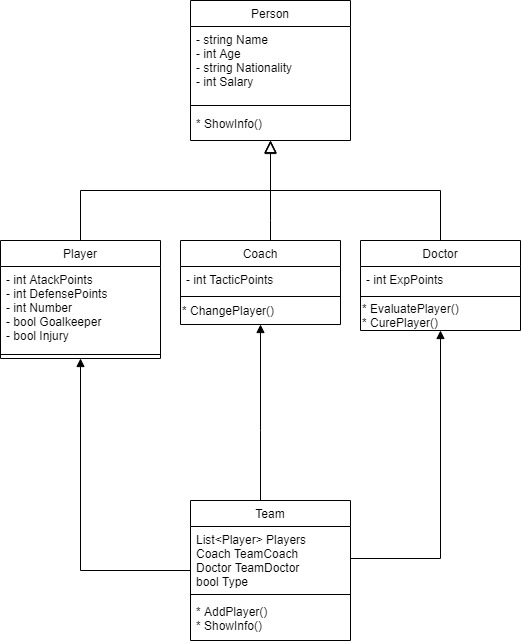
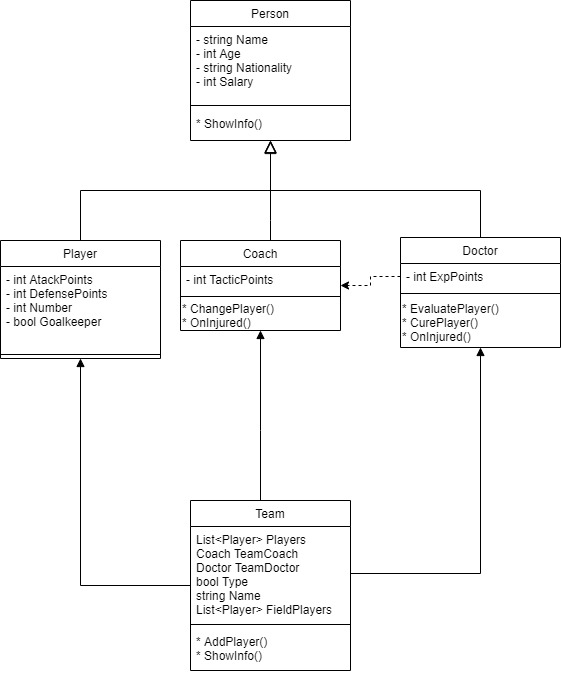
Evento Lesionado

Changed region(s): [[0.0, 0.0, 1.0, 1.0]]

diff --git a/Examen/Program.cs b/Examen/Program.cs
@@ -2,7 +2,7 @@
 using System.Collections.Generic;
 using System.Linq;
 using System.Text;
-using System.Threading.Tasks;
+using System.Threading;
 
 namespace Examen
 {
@@ -13,6 +13,8 @@ namespace Examen
             #region Crear
             List<Player> players = new List<Player>();
             List<Player> players1 = new List<Player>();
+            List<Player> field = new List<Player>();
+            List<Player> field1 = new List<Player>();
             Player p1 = new Player("A A", 23, "Chile", 5000, 350, 200, 1, false); players.Add(p1);
             Player p2 = new Player("B B", 23, "Chile", 5000, 350, 200, 2, true); players.Add(p2);
             Player p3 = new Player("C C", 23, "Chile", 5000, 350, 200, 3, false); players.Add(p3);
@@ -47,28 +49,54 @@ namespace Examen
             Coach c2 = new Coach("R R", 42, "Irlanda", 10000, 570);
             Doctor d1 = new Doctor("S S", 42, "Chile", 15000, 500);
             Doctor d2 = new Doctor("T T", 42, "Irlanda", 15000, 500);
-            Team chile = new Team(players, c1, d1, true,"Chile");
-            Team irlanda = new Team(players1, c2, d2, true, "Irlanda");
-            Team ligac = new Team(players, c2, d1, false, "Liga Chilena");
-            Team ligai = new Team(players1, c1, d2, false, "Liga Irlandesa");
+            int i = 11;
+            while (i>= 0)
+            {
+                field.Add(players[i]);
+                field1.Add(players1[i]);
+                i--;
+            }
+            Team chile = new Team(players, c1, d1, true,"Chile",field);
+            Team irlanda = new Team(players1, c2, d2, true, "Irlanda",field1);
+            Team ligac = new Team(players, c2, d2, false, "Liga Chilena", field);
+            Team ligai = new Team(players1, c1, d1, false, "Liga Irlandesa", field1);
             #endregion
+
+            d1.Injured += c1.OnInjured;
+            d2.Injured += c2.OnInjured;
+
+            #region Consola
+
             chile.ShowInfo();
+            Thread.Sleep(3000);
             Console.WriteLine();
             irlanda.ShowInfo();
+            Thread.Sleep(3000);
             Console.WriteLine();
             Partido(chile, irlanda);
+            Thread.Sleep(3000);
+            Console.WriteLine();
+            Partido(ligac, ligai);
+            Thread.Sleep(3000);
             Console.WriteLine();
             Partido(chile, ligac);
+            Thread.Sleep(3000);
             Console.WriteLine();
             Console.WriteLine("Se intenta de agregar un jugador a un equipo nacional.");
+            Thread.Sleep(3000);
             chile.AddPlayer(p16);
+            Thread.Sleep(3000);
             Console.WriteLine();
             ligai.ShowInfo();
+            Thread.Sleep(3000);
             Console.WriteLine();
             Console.WriteLine("Se intenta de agregar un jugador a un equipo de liga.");
+            Thread.Sleep(3000);
             ligac.AddPlayer(p23);
             ligac.ShowInfo();
             Console.ReadKey();
+
+            #endregion
         }
         static public void Partido(Team a, Team b)
         {
@@ -77,7 +105,7 @@ namespace Examen
                 Console.WriteLine("Se jugó un partido, los equipos que se enfrentaron son:");
                 Console.WriteLine(a.Name + " v/s " + b.Name);
                 Random rnd = new Random();
-                int minutos = rnd.Next(90, 130);
+                int minutos = rnd.Next(90, 100);
                 Console.WriteLine("El partido duró {0} minutos", minutos.ToString());
                 int marcadorA = rnd.Next(5);
                 int marcadorB = rnd.Next(5);
@@ -92,6 +120,19 @@ namespace Examen
                     str = "Liga";
                 }
                 Console.WriteLine("El tipo de partido es {0}", str);
+                int lesion = rnd.Next(3);
+                if (lesion == 0)
+                {
+                    int i = rnd.Next(12);
+                    Console.WriteLine("El jugador {0} de {1} se lesionó", a.FieldPlayers[i].Name, a.Name);
+                    a.TeamDoctor.EvaluatePlayer(a.FieldPlayers[i]);
+                }
+                else if (lesion == 1)
+                {
+                    int i = rnd.Next(12);
+                    Console.WriteLine("El jugador {0} de {1} se lesionó", b.FieldPlayers[i].Name, b.Name);
+                    b.TeamDoctor.EvaluatePlayer(b.FieldPlayers[i]);
+                }
             }
             else
             {

diff --git a/Examen/Team.cs b/Examen/Team.cs
@@ -13,14 +13,16 @@ namespace Examen
         private Doctor teamDoctor;
         private bool type; // true es Nacional y false es Liga
         private string name;
+        private List<Player> fieldPlayers;
 
-        public Team(List<Player> teamPlayers, Coach teamCoach, Doctor teamDoctor, bool type, string name)
+        public Team(List<Player> teamPlayers, Coach teamCoach, Doctor teamDoctor, bool type, string name, List<Player> fieldPlayers)
         {
             this.teamPlayers = teamPlayers;
             this.teamCoach = teamCoach;
             this.teamDoctor = teamDoctor;
             this.type = type;
             this.name = name;
+            this.FieldPlayers = fieldPlayers;
         }
 
         public List<Player> TeamPlayers { get => teamPlayers; set => teamPlayers = value; }
@@ -28,6 +30,7 @@ namespace Examen
         public Doctor TeamDoctor { get => teamDoctor; set => teamDoctor = value; }
         public bool Type { get => type; set => type = value; }
         public string Name { get => name; set => name = value; }
+        public List<Player> FieldPlayers { get => fieldPlayers; set => fieldPlayers = value; }
 
         public void ShowInfo()
         {

diff --git a/Examen/Doctor.cs b/Examen/Doctor.cs
@@ -8,6 +8,7 @@ namespace Examen
 {
     public class Doctor : Person
     {
+        public event EventHandler<PlayerEventArgs> Injured;
         private int expPontis;
         public Doctor(string name, int age, string nationality, int salary, int expPoints) : base(name, age, nationality, salary)
         {
@@ -18,11 +19,19 @@ namespace Examen
 
         public void EvaluatePlayer(Player p)
         {
-            //Not Implemented Yet
+            OnInjured(p);
         }
         public void CurePlayer(Player p)
         {
-            //Not Implemented Yet
+            Console.WriteLine("Se curó al jugador " + p.Name);
+        }
+        protected virtual void OnInjured(Player p)
+        {
+            if (Injured != null)
+            {
+                Injured(this, new PlayerEventArgs() { player = p} );
+            }
+            CurePlayer(p);
         }
     }
 }

diff --git a/Examen/Player.cs b/Examen/Player.cs
@@ -12,7 +12,6 @@ namespace Examen
         private int defensePoints;
         private int number;
         private bool goalkeeper; // true si es arquero
-        private bool injury;
         public Player(string name, int age, string nationality, int salary, int atackPoints, int defensePoints, int number, bool goalkeeper) : base(name, age, nationality, salary)
         {
             AtackPoints = atackPoints;
@@ -25,6 +24,5 @@ namespace Examen
         public int DefensePoints { get => defensePoints; set => defensePoints = value; }
         public int Number { get => number; set => number = value; }
         public bool Goalkeeper { get => goalkeeper; set => goalkeeper = value; }
-        public bool Injury { get => injury; set => injury = value; }
     }
 }

diff --git a/Examen/Coach.cs b/Examen/Coach.cs
@@ -17,9 +17,13 @@ namespace Examen
 
         public int TacticPoints { get => tacticPoints; set => tacticPoints = value; }
 
-        public void ChangePlayer()
+        public void ChangePlayer(Player p)
         {
-            // Not Implemented Yet
+            Console.WriteLine("Se cambió al jugador " + p.Name);
+        }
+        public void OnInjured(object source, PlayerEventArgs args)
+        {
+            ChangePlayer(args.player);
         }
     }
 }

diff --git a/Examen/PlayerEventArgs.cs b/Examen/PlayerEventArgs.cs
@@ -1,0 +1,13 @@
+using System;
+using System.Collections.Generic;
+using System.Linq;
+using System.Text;
+using System.Threading.Tasks;
+
+namespace Examen
+{
+    public class PlayerEventArgs : EventArgs
+    {
+        public Player player { get; set; }
+    }
+}

diff --git a/Examen/Person.cs b/Examen/Person.cs
@@ -30,7 +30,6 @@ namespace Examen
         {
             string s = this.name + " tiene "+ this.age.ToString()+ " años, es de  "+this.nationality+" y tiene un sueldo de "+ this.salary.ToString() +".";
             return s;
-
         }
     }
 }
